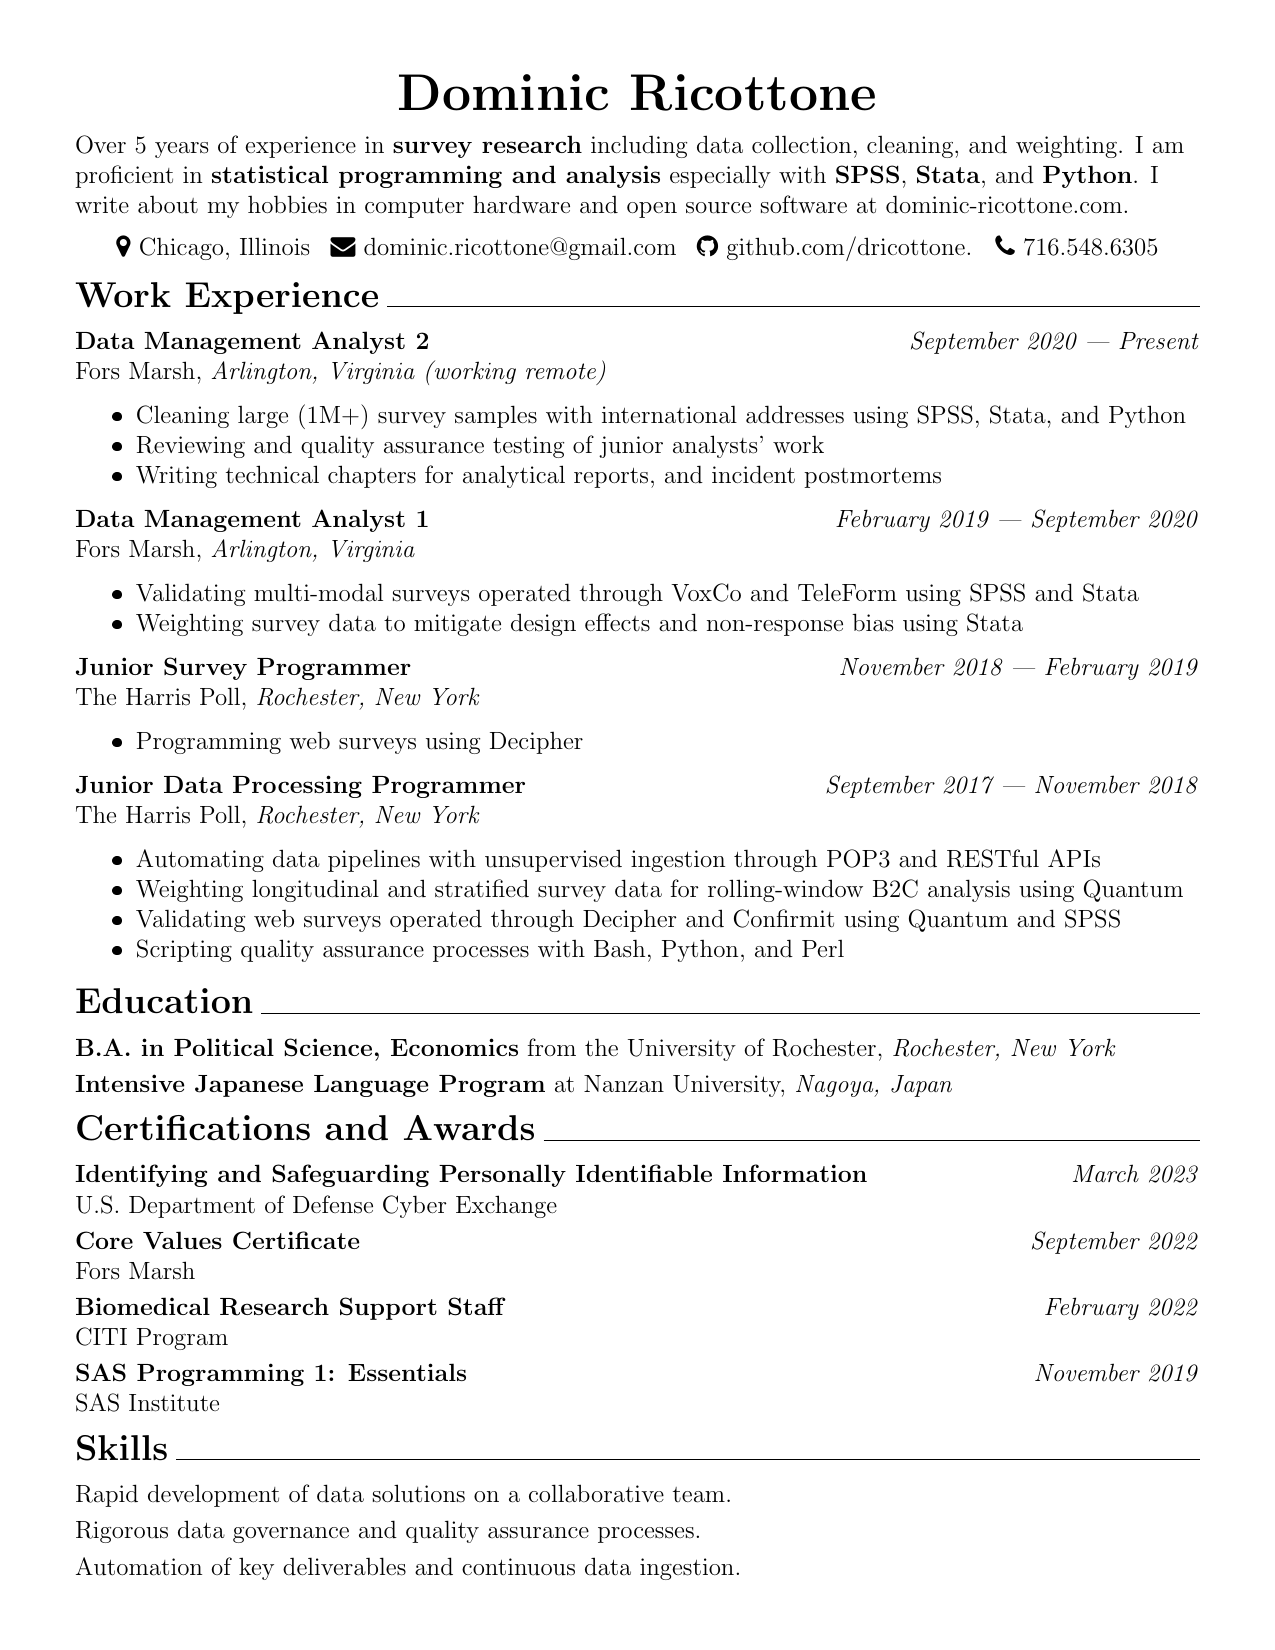
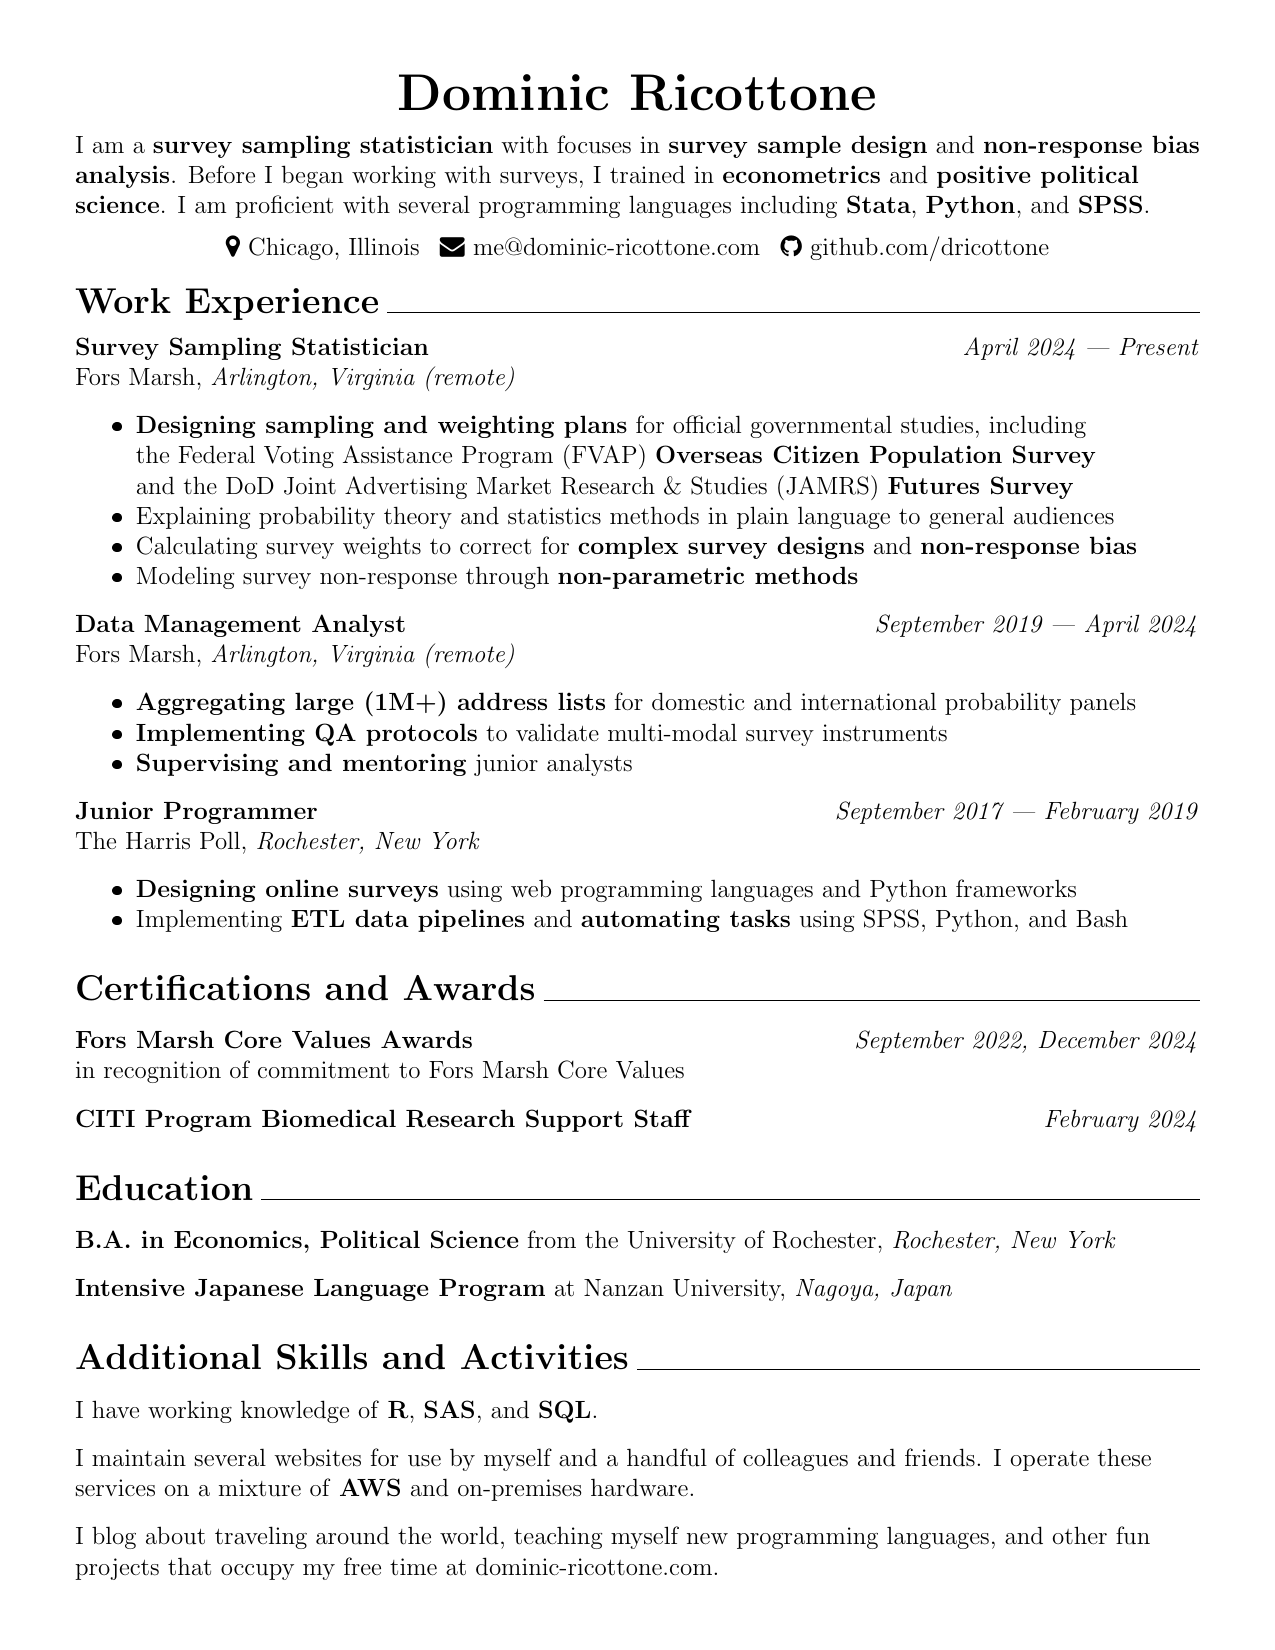
Overhaul

diff --git a/document.tex b/document.tex
@@ -28,109 +28,113 @@
 
 \raggedright
 \vspace{.5em}
-Over 5 years of experience in \textbf{survey research}
-including data collection, cleaning, and weighting.
-I am proficient in \textbf{statistical programming and analysis} especially with
-\textbf{SPSS}, \textbf{Stata}, and \textbf{Python}.
-I write about my hobbies in computer hardware and open source software at
-\href{https://www.dominic-ricottone.com}{dominic-ricottone.com}.
+
+I am a \textbf{survey sampling statistician} with focuses in \textbf{survey sample design} and \textbf{non-response bias analysis}.
+Before I began working with surveys, I trained in \textbf{econometrics} and \textbf{positive political science}.
+I am proficient with several programming languages including \textbf{Stata}, \textbf{Python}, and \textbf{SPSS}.
 
 
 
 \centering
 \vspace{.5em}
+
+
+
 \faicon{map-marker} Chicago, Illinois
 \enspace
 \faicon{envelope} \href{mailto:me@dominic-ricottone.com}{me@dominic-ricottone.com}
 \enspace
-\faicon{github} \href{https://github.com/dricottone}{github.com/dricottone}.
-\enspace
-\faicon{phone} 716.548.6305
+\faicon{github} \href{https://github.com/dricottone}{github.com/dricottone}
 
 
 
 \raggedright
-\vspace{.75em}
+\vspace{1em}
+
+
+
 \textbf{\Large Work Experience} \hrulefill
-\vspace{.5em}
-
-\textbf{Data Management Analyst 2} \hfill \textit{September 2020 --- Present}
-\par Fors Marsh, \textit{Arlington, Virginia (working remote)}
-\begin{itemize}[]
-\item Cleaning large (1M+) survey samples with international addresses using SPSS, Stata, and Python
-\item Reviewing and quality assurance testing of junior analysts' work
-\item Writing technical chapters for analytical reports, and incident postmortems
-\end{itemize}
-
-\par \textbf{Data Management Analyst 1} \hfill \textit{February 2019 --- September 2020}
-\par Fors Marsh, \textit{Arlington, Virginia}
-\begin{itemize}[]
-\item Validating multi-modal surveys operated through VoxCo and TeleForm using SPSS and Stata
-\item Weighting survey data to mitigate design effects and non-response bias using Stata
-\end{itemize}
-
-\textbf{Junior Survey Programmer} \hfill \textit{November 2018 --- February 2019}
-\par The Harris Poll, \textit{Rochester, New York}
-\begin{itemize}[]
-\item Programming web surveys using Decipher
-\end{itemize}
-
-\textbf{Junior Data Processing Programmer} \hfill \textit{September 2017 --- November 2018}
-\par The Harris Poll, \textit{Rochester, New York}
-\begin{itemize}[]
-\item Automating data pipelines with unsupervised ingestion through POP3 and RESTful APIs
-\item Weighting longitudinal and stratified survey data for rolling-window B2C analysis using Quantum
-\item Validating web surveys operated through Decipher and Confirmit using Quantum and SPSS
-\item Scripting quality assurance processes with Bash, Python, and Perl
-\end{itemize}
-
-
 
 \vspace{.5em}
+
+\textbf{Survey Sampling Statistician} \hfill \textit{April 2024 --- Present}
+\par Fors Marsh, \textit{Arlington, Virginia (remote)}
+\begin{itemize}[]
+\item \textbf{Designing sampling and weighting plans} for official governmental studies, including
+\\ the Federal Voting Assistance Program (FVAP) \textbf{Overseas Citizen Population Survey}
+\\ and the DoD Joint Advertising Market Research \& Studies (JAMRS) \textbf{Futures Survey}
+\item Explaining probability theory and statistics methods in plain language to general audiences
+\item Calculating survey weights to correct for \textbf{complex survey designs} and \textbf{non-response bias}
+\item Modeling survey non-response through \textbf{non-parametric methods}
+\end{itemize}
+
+\textbf{Data Management Analyst} \hfill \textit{September 2019 --- April 2024}
+\par Fors Marsh, \textit{Arlington, Virginia (remote)}
+\begin{itemize}[]
+\item \textbf{Aggregating large (1M+) address lists} for domestic and international probability panels
+\item \textbf{Implementing QA protocols} to validate multi-modal survey instruments
+\item \textbf{Supervising and mentoring} junior analysts
+\end{itemize}
+
+\textbf{Junior Programmer} \hfill \textit{September 2017 --- February 2019}
+\par The Harris Poll, \textit{Rochester, New York}
+\begin{itemize}[]
+\item \textbf{Designing online surveys} using web programming languages and Python frameworks
+\item Implementing \textbf{ETL data pipelines} and \textbf{automating tasks} using SPSS, Python, and Bash
+\end{itemize}
+
+
+
+\vspace{1em}
+
+
+
+\textbf{\Large Certifications and Awards} \hrulefill
+
+\vspace{.75em}
+
+\textbf{Fors Marsh Core Values Awards} \hfill \textit{September 2022, December 2024}
+\par in recognition of commitment to Fors Marsh Core Values
+
+\vspace{.75em}
+
+\textbf{CITI Program Biomedical Research Support Staff} \hfill \textit{February 2024}
+
+
+
+\vspace{1.75em}
+
+
+
 \textbf{\Large Education} \hrulefill
-\vspace{.5em}
 
-\textbf{B.A. in Political Science, Economics} from the University of Rochester, \textit{Rochester, New York}
+\vspace{.75em}
 
-\vspace{.25em}
+\textbf{B.A. in Economics, Political Science} from the University of Rochester, \textit{Rochester, New York}
+
+\vspace{.75em}
+
 \textbf{Intensive Japanese Language Program} at Nanzan University, \textit{Nagoya, Japan}
 
 
 
-\vspace{.75em}
-\textbf{\Large Certifications and Awards} \hrulefill
-\vspace{.5em}
-
-\textbf{Identifying and Safeguarding Personally Identifiable Information} \hfill \textit{March 2023}
-\par U.S. Department of Defense Cyber Exchange
-
-\vspace{.25em}
-\textbf{Core Values Certificate} \hfill \textit{September 2022}
-\par Fors Marsh
-
-\vspace{.25em}
-\textbf{Biomedical Research Support Staff} \hfill \textit{February 2022}
-\par CITI Program
-
-\vspace{.25em}
-\textbf{SAS Programming 1: Essentials} \hfill \textit{November 2019}
-\par SAS Institute
+\vspace{1.75em}
 
 
+
+\textbf{\Large Additional Skills and Activities} \hrulefill
 
 \vspace{.75em}
-\textbf{\Large Skills} \hrulefill
-\vspace{.5em}
 
-Rapid development of data solutions on a collaborative team.
+I have working knowledge of \textbf{R}, \textbf{SAS}, and \textbf{SQL}.
 
-\vspace{.25em}
-Rigorous data governance and quality assurance processes.
+\vspace{.75em}
 
-\vspace{.25em}
-Automation of key deliverables and continuous data ingestion.
+I maintain several websites for use by myself and a handful of colleagues and friends. I operate these services on a mixture of \textbf{AWS} and on-premises hardware.
 
+\vspace{.75em}
 
+I blog about traveling around the world, teaching myself new programming languages, and other fun projects that occupy my free time at \href{https://www.dominic-ricottone.com}{dominic-ricottone.com}.
 
 \end{document}
 
